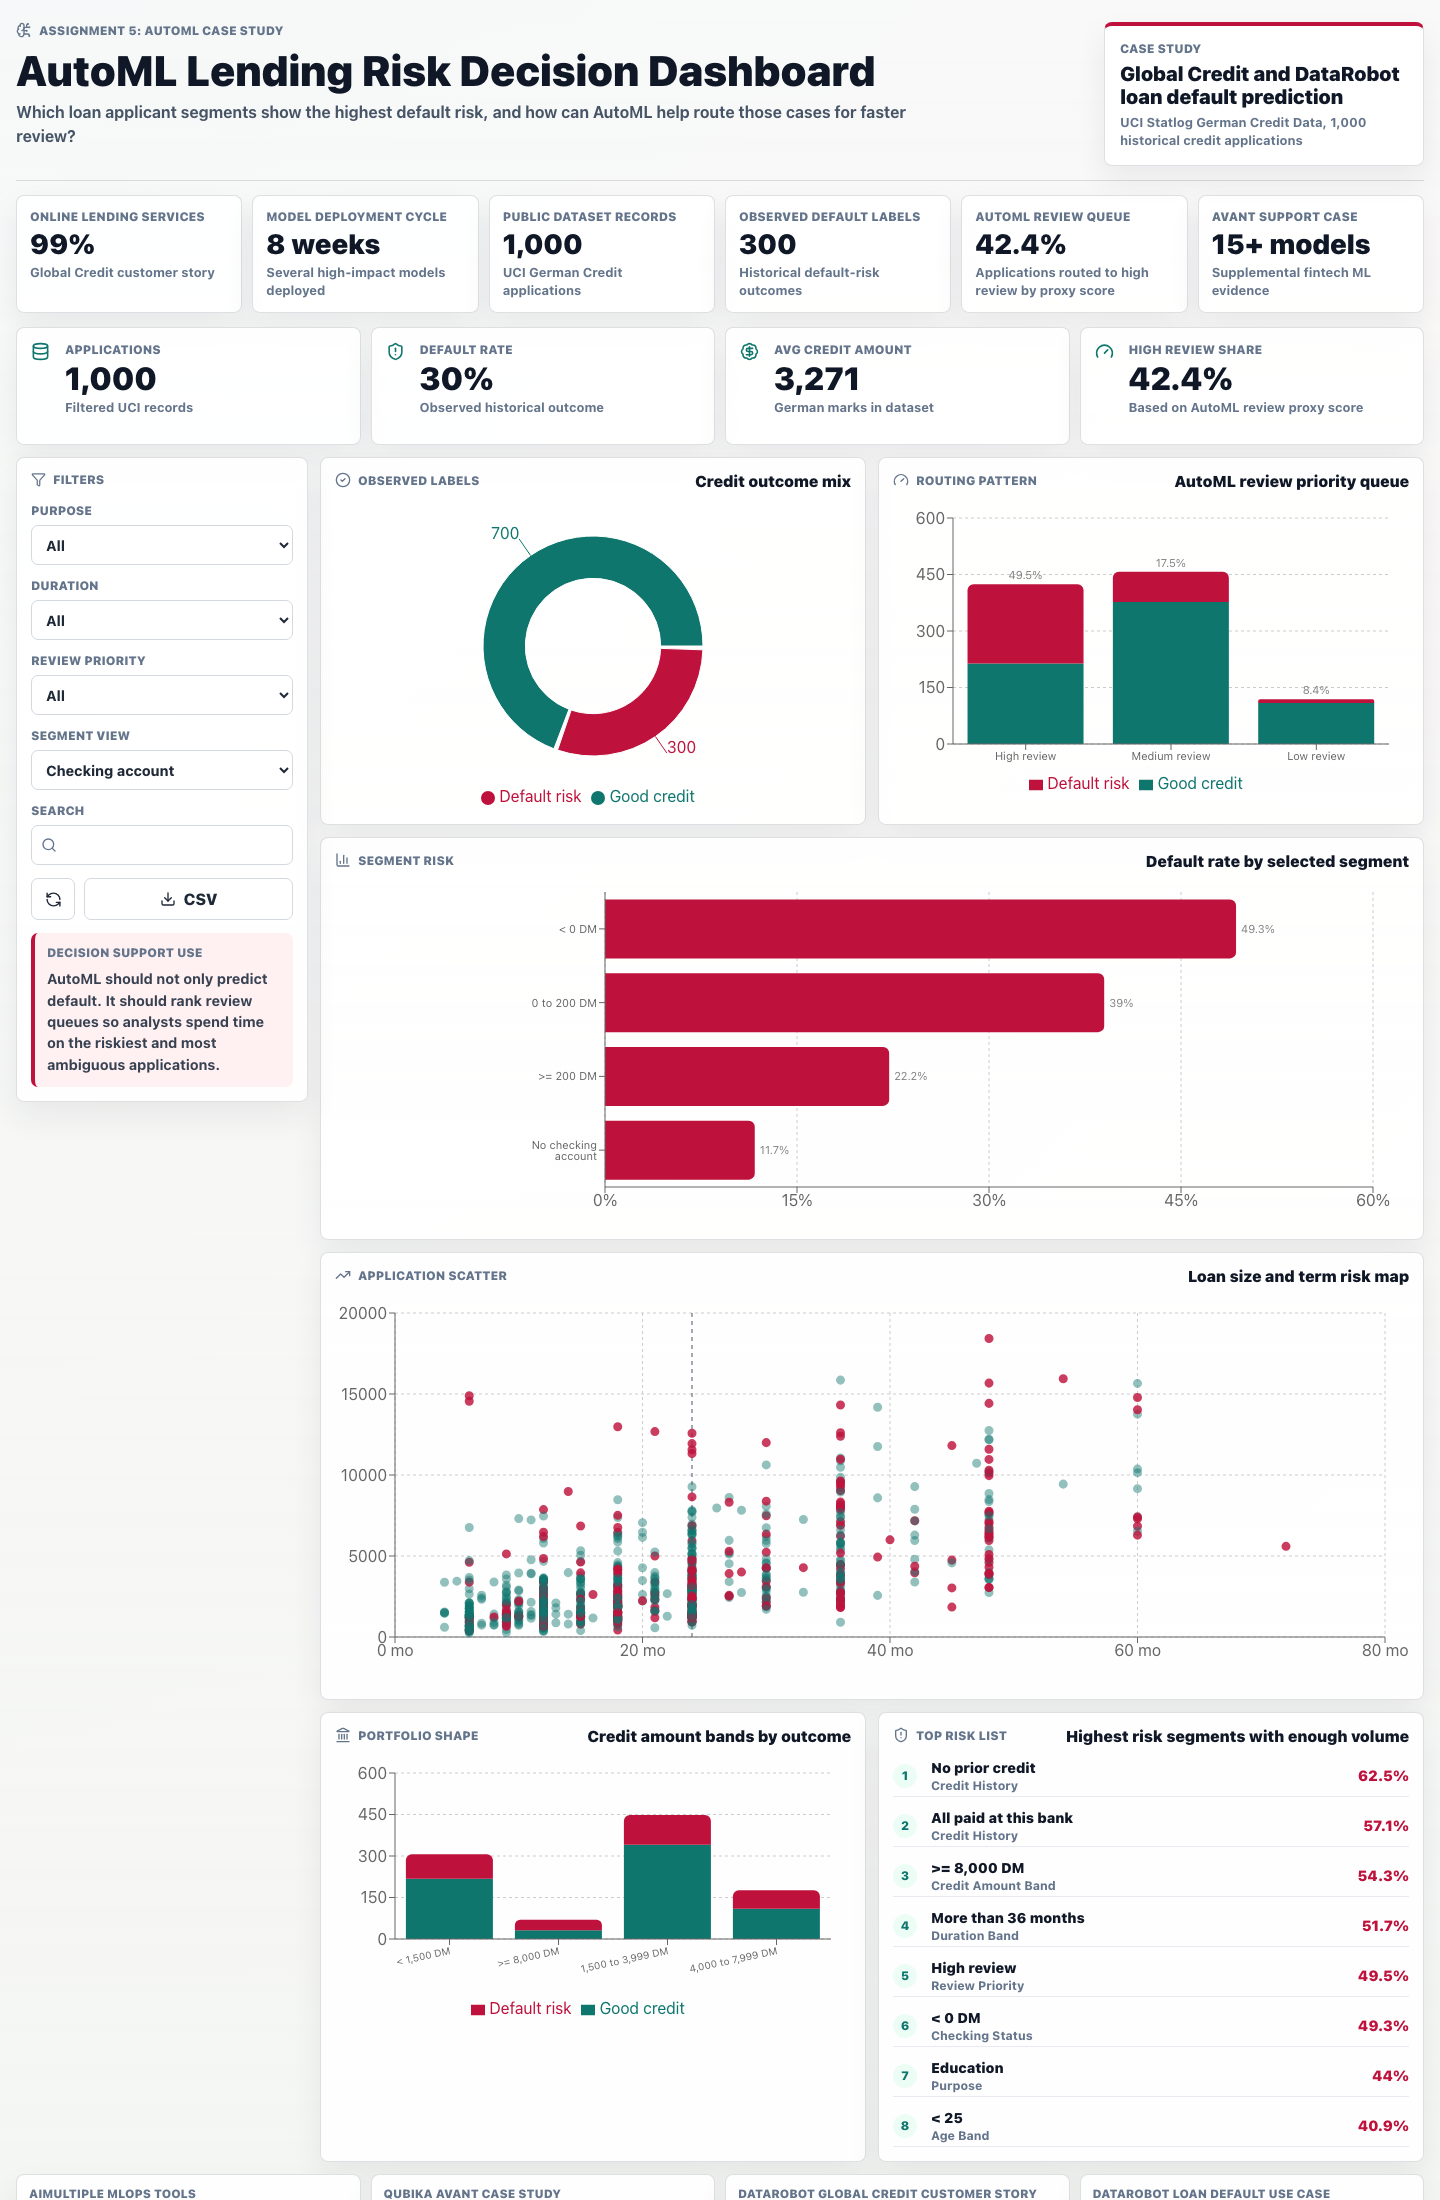
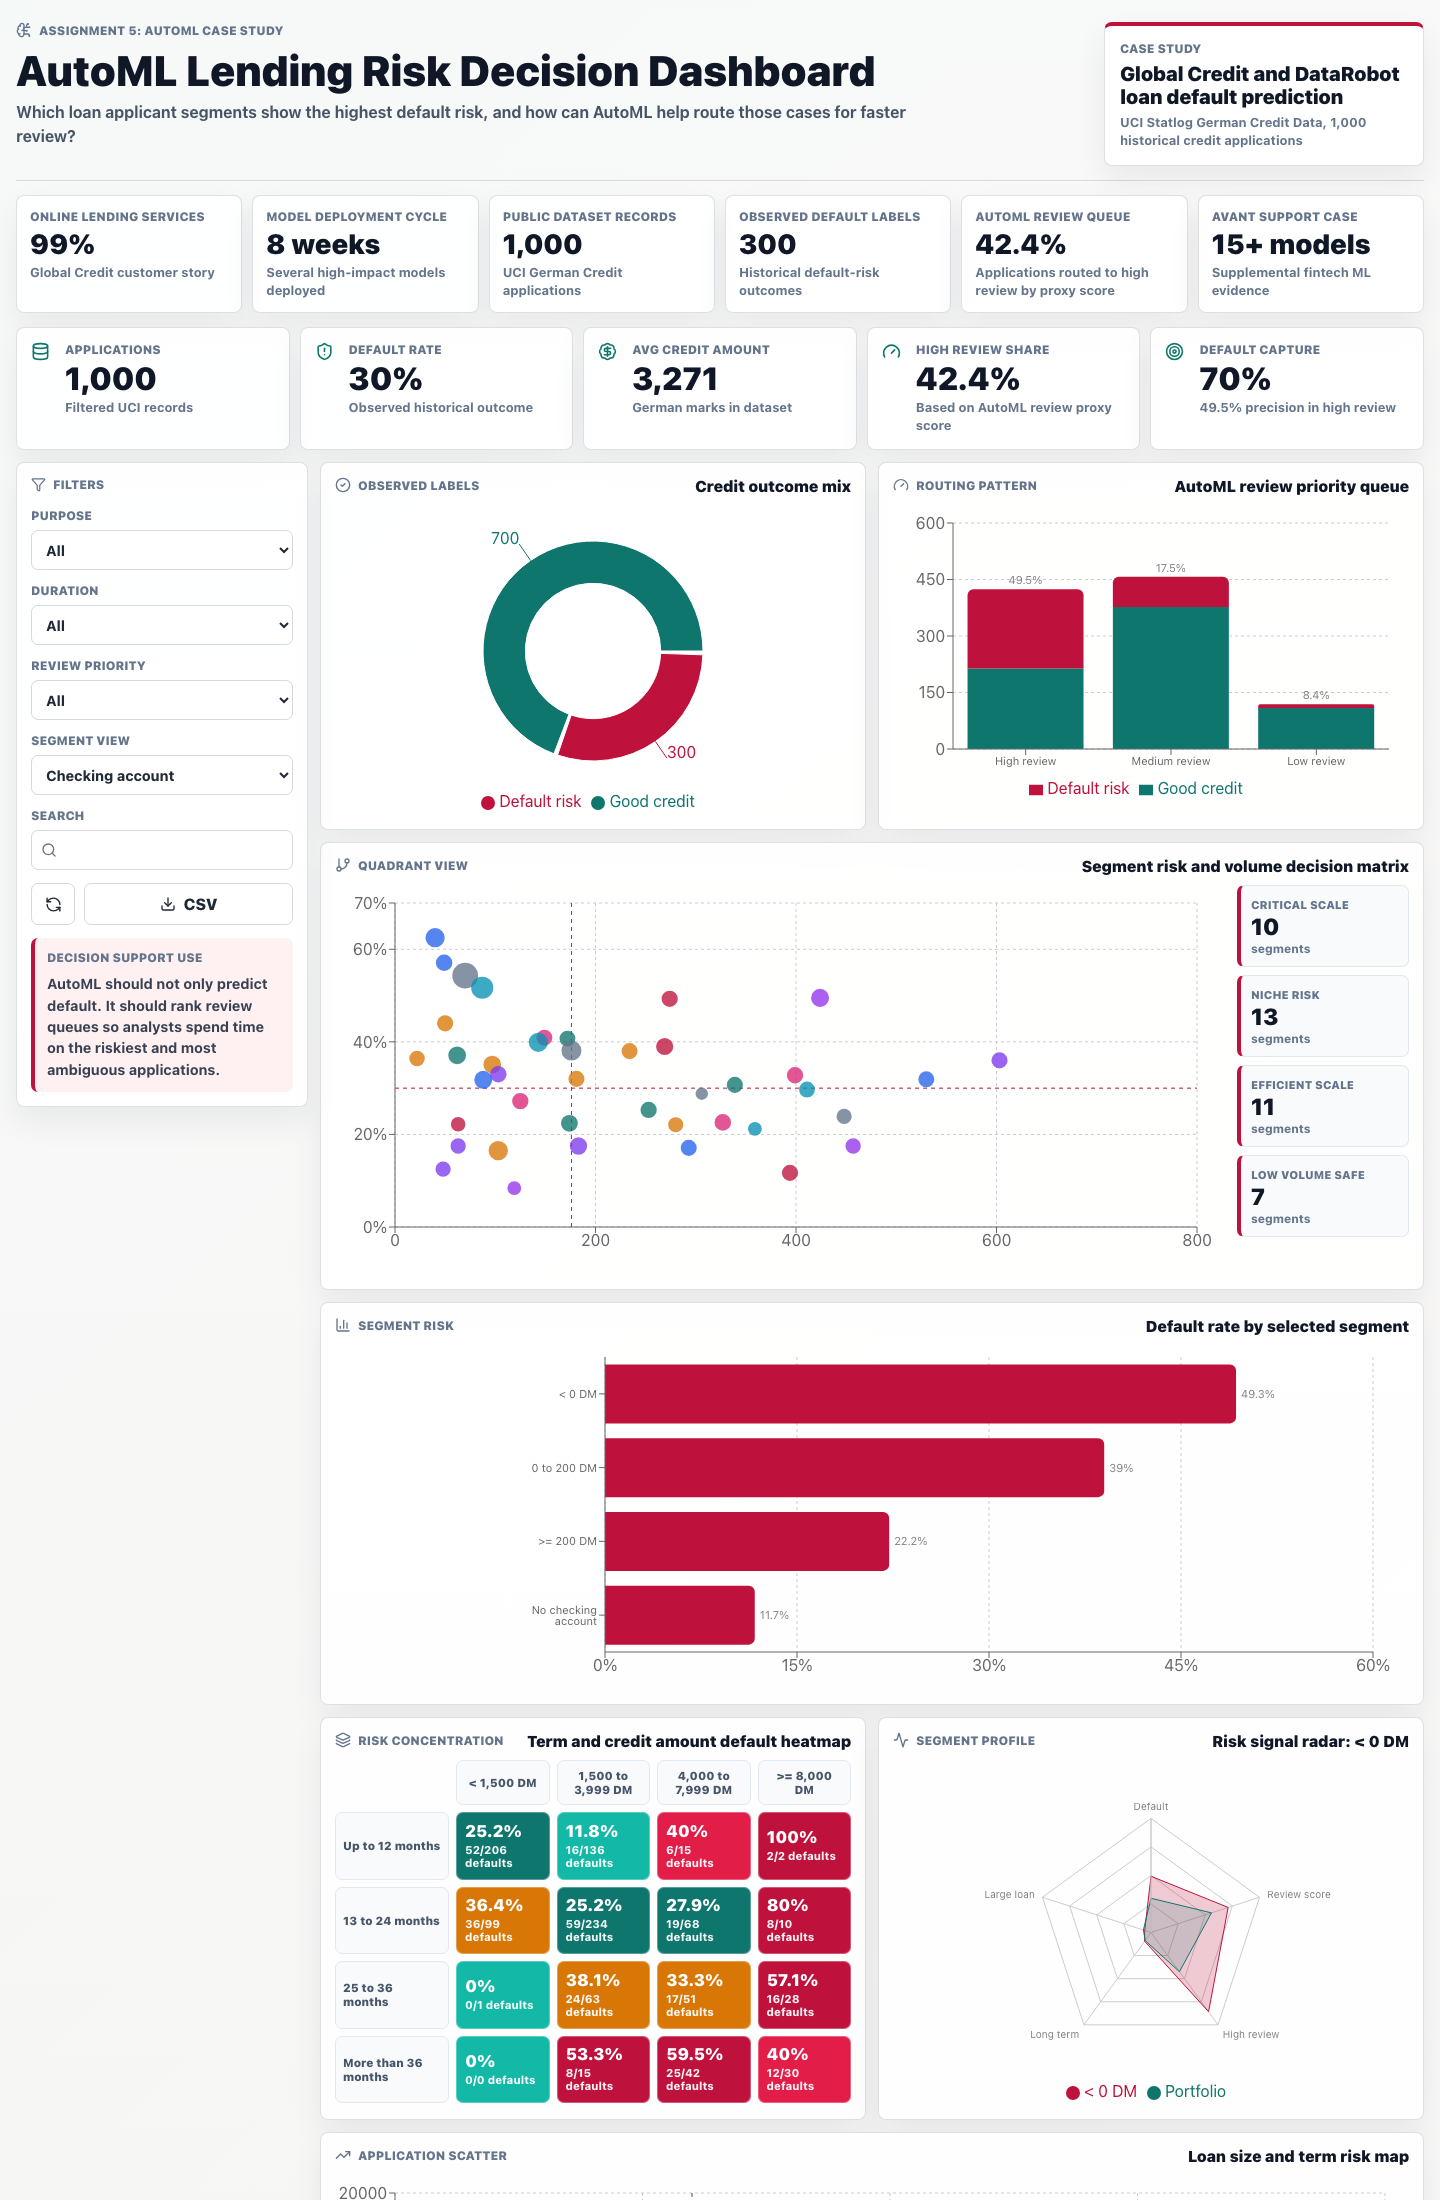
Enhance assignment 5 dashboard complexity

diff --git a/docs/assignment-5/index.html b/docs/assignment-5/index.html
@@ -4,8 +4,8 @@
     <meta charset="UTF-8" />
     <meta name="viewport" content="width=device-width, initial-scale=1.0" />
     <title>AutoML Lending Risk Dashboard</title>
-    <script type="module" crossorigin src="./assets/index-BXRBuzX-.js"></script>
-    <link rel="stylesheet" crossorigin href="./assets/index-DuGqvFz1.css">
+    <script type="module" crossorigin src="./assets/index-Brkte2UV.js"></script>
+    <link rel="stylesheet" crossorigin href="./assets/index-C2jRnx61.css">
   </head>
   <body>
     <div id="root"></div>

diff --git a/docs/assignment-5/assets/index-C2jRnx61.css b/docs/assignment-5/assets/index-C2jRnx61.css
@@ -1,0 +1,1 @@
+:root{color:#172033;background:#f4f6f3;font-family:Inter,ui-sans-serif,system-ui,-apple-system,BlinkMacSystemFont,Segoe UI,sans-serif;font-synthesis:none;text-rendering:optimizeLegibility;-webkit-font-smoothing:antialiased}*{box-sizing:border-box}html,body,#root{min-width:320px;min-height:100vh;overflow-x:hidden}body{margin:0;background:linear-gradient(180deg,#ffffffbd,#f4f6f3fa),linear-gradient(135deg,#0f766e1a,#be123c12 54%,#2563eb12)}button,select,input{font:inherit}button{cursor:pointer}h1,p{margin:0}a{color:inherit}.shell{width:min(1520px,calc(100% - 32px));margin:0 auto;padding:22px 0 34px}.loading-shell{min-height:100vh;display:grid;place-items:center;align-content:center;gap:12px;color:#172033;font-weight:850}.spin{color:#0f766e;animation:spin 1s linear infinite}@keyframes spin{to{transform:rotate(360deg)}}.topbar{display:grid;grid-template-columns:minmax(0,1fr) 320px;gap:14px;align-items:stretch;padding-bottom:14px;border-bottom:1px solid rgba(23,32,51,.14)}.title-block{min-width:0}.eyebrow,.data-card span,.case-metric span,.kpi-card span,.panel-head span,.field span,.filter-head span,.insight-box span{display:inline-flex;align-items:center;gap:7px;color:#64748b;font-size:.76rem;font-weight:900;letter-spacing:0;text-transform:uppercase}h1{margin-top:8px;color:#101827;font-size:2.65rem;line-height:1.02;font-weight:920;overflow-wrap:break-word}.title-block p{max-width:900px;margin-top:8px;color:#465466;font-size:1rem;line-height:1.5;font-weight:680}.data-card,.case-metric,.kpi-card,.filter-panel,.panel,.source-link{border:1px solid rgba(23,32,51,.14);border-radius:8px;background:#ffffffed;box-shadow:0 14px 32px #[phone redacted]}.data-card{display:grid;align-content:center;gap:6px;border-top:4px solid #be123c;padding:15px}.data-card strong{color:#101827;font-size:1.25rem;font-weight:920}.data-card small,.case-metric small,.kpi-card small{color:#64748b;font-size:.8rem;line-height:1.4;font-weight:720}.case-strip{display:grid;grid-template-columns:repeat(6,minmax(0,1fr));gap:10px;margin:14px 0}.case-metric{min-width:0;min-height:118px;display:grid;gap:6px;align-content:start;padding:13px}.case-metric strong{color:#101827;font-size:1.74rem;line-height:1;font-weight:920}.kpi-grid{display:grid;grid-template-columns:repeat(5,minmax(0,1fr));gap:10px;margin-bottom:12px}.kpi-card{min-width:0;min-height:118px;display:grid;grid-template-columns:24px minmax(0,1fr);gap:5px 10px;align-content:start;padding:14px}.kpi-card svg{grid-row:span 3;color:#0f766e}.kpi-card strong{color:#101827;font-size:2rem;line-height:1;font-weight:920}.workspace{display:grid;grid-template-columns:292px minmax(0,1fr);gap:12px;align-items:start}.filter-panel{position:sticky;top:12px;display:grid;gap:13px;padding:14px}.field{display:grid;gap:7px}.field select,.field input{width:100%;min-height:40px;border:1px solid #d4d8df;border-radius:7px;background:#fff;color:#1f2937;padding:0 10px;font-size:.9rem;font-weight:750}.field select:focus,.field input:focus{border-color:#0f766e;box-shadow:0 0 0 3px #0f766e24;outline:none}.search-field{position:relative}.search-field svg{position:absolute;left:10px;bottom:12px;color:#64748b}.search-field input{padding-left:34px}.button-row{display:grid;grid-template-columns:44px 1fr;gap:9px}.icon-button,.text-button{min-height:42px;border:1px solid #d4d8df;border-radius:7px;background:#fff;color:#1f2937;display:inline-flex;align-items:center;justify-content:center;gap:8px;font-weight:850}.icon-button:hover,.text-button:hover{border-color:#0f766e;color:#0f766e}.insight-box{display:grid;gap:8px;border-left:4px solid #be123c;border-radius:7px;background:#fff1f2;padding:12px}.insight-box p{color:#374151;font-size:.9rem;line-height:1.48;font-weight:700}.content-grid{min-width:0;display:grid;grid-template-columns:repeat(2,minmax(0,1fr));gap:12px}.panel{min-width:0;padding:14px}.panel.wide{grid-column:1 / -1}.panel-head{display:flex;align-items:start;justify-content:space-between;gap:12px;margin-bottom:10px}.panel-head strong{color:#101827;font-size:.98rem;font-weight:920;text-align:right}.chart-frame{width:100%;height:345px}.chart-frame.compact{height:310px}.pie-frame{width:100%;height:310px}.scatter-frame,.matrix-frame{width:100%;height:390px}.radar-frame{width:100%;height:345px}.quadrant-layout{display:grid;grid-template-columns:minmax(0,1fr) 172px;gap:12px;align-items:stretch}.quadrant-summary{display:grid;gap:8px;align-content:start}.quadrant-summary section{min-height:82px;display:grid;gap:4px;align-content:center;border:1px solid #e2e8f0;border-left:4px solid #be123c;border-radius:7px;background:#f8fafc;padding:10px}.quadrant-summary span{color:#64748b;font-size:.7rem;font-weight:900;text-transform:uppercase}.quadrant-summary strong{color:#101827;font-size:1.45rem;line-height:1;font-weight:920}.quadrant-summary small{color:#64748b;font-size:.74rem;font-weight:760}.heatmap-grid{width:100%;min-height:345px;display:grid;grid-template-columns:114px repeat(4,minmax(92px,1fr));gap:7px;overflow-x:auto;padding-bottom:2px}.heatmap-spacer,.heatmap-head,.heatmap-row-head,.heatmap-cell{min-width:0;border-radius:7px}.heatmap-head,.heatmap-row-head{display:grid;place-items:center;min-height:42px;border:1px solid #e2e8f0;background:#f8fafc;color:#475569;font-size:.72rem;line-height:1.2;font-weight:880;text-align:center;padding:7px}.heatmap-row-head{justify-items:start;text-align:left}.heatmap-cell{min-height:66px;display:grid;align-content:center;gap:3px;color:#fff;box-shadow:inset 0 0 0 1px #ffffff4d;padding:9px}.heatmap-cell strong{font-size:1.05rem;line-height:1;font-weight:920}.heatmap-cell small{font-size:.7rem;line-height:1.2;font-weight:800;opacity:.94}.chart-tooltip{min-width:180px;display:grid;gap:4px;border:1px solid #d4d8df;border-radius:7px;background:#fffffff7;box-shadow:0 12px 28px #[phone redacted];padding:9px 10px}.chart-tooltip strong{color:#101827;font-size:.9rem}.chart-tooltip span,.chart-tooltip small{color:#475569;font-size:.82rem;font-weight:760}.risk-list{display:grid;gap:8px}.risk-row{display:grid;grid-template-columns:28px minmax(0,1fr) 62px;gap:10px;align-items:center;min-height:42px;border-bottom:1px solid #e7ebf0}.risk-row span{display:grid;place-items:center;width:24px;height:24px;border-radius:999px;background:#ecfdf5;color:#0f766e;font-size:.76rem;font-weight:900}.risk-row strong,.risk-row small{display:block;min-width:0;white-space:nowrap;overflow:hidden;text-overflow:ellipsis}.risk-row strong{color:#101827;font-size:.88rem;font-weight:900}.risk-row small{margin-top:2px;color:#64748b;font-size:.76rem;font-weight:760;text-transform:capitalize}.risk-row b{color:#be123c;font-size:.92rem;font-weight:920;text-align:right}.source-grid{display:grid;grid-template-columns:repeat(4,minmax(0,1fr));gap:10px;margin-top:12px}.source-link{min-width:0;display:grid;grid-template-columns:minmax(0,1fr) 18px;gap:6px 10px;padding:12px;color:#172033;text-decoration:none}.source-link span{grid-column:1 / -1;color:#64748b;font-size:.74rem;font-weight:900;letter-spacing:0;text-transform:uppercase}.source-link strong{min-width:0;color:#101827;font-size:.84rem;line-height:1.32;font-weight:850}.source-link svg{color:#0f766e}@media(max-width:1260px){.case-strip,.kpi-grid{grid-template-columns:repeat(3,minmax(0,1fr))}}@media(max-width:1080px){.topbar,.workspace,.content-grid,.quadrant-layout{grid-template-columns:1fr}.data-card{max-width:460px}.filter-panel{position:static;grid-template-columns:repeat(2,minmax(0,1fr))}.filter-head,.button-row,.insight-box{grid-column:1 / -1}.source-grid{grid-template-columns:repeat(2,minmax(0,1fr))}}@media(max-width:760px){.shell{width:min(calc(100% - 20px),370px);margin:0 0 0 10px;padding-top:12px}h1{font-size:1.78rem;line-height:1.08}.case-strip,.kpi-grid,.filter-panel,.source-grid{grid-template-columns:1fr}.panel-head{display:grid}.panel-head strong{text-align:left}.chart-frame,.chart-frame.compact,.pie-frame,.scatter-frame,.matrix-frame,.radar-frame{height:310px}.heatmap-grid{grid-template-columns:72px repeat(4,minmax(56px,1fr));gap:4px;overflow-x:visible}.heatmap-head,.heatmap-row-head{min-height:38px;font-size:.54rem;padding:4px}.heatmap-cell{min-height:58px;padding:5px}.heatmap-cell strong{font-size:.78rem}.heatmap-cell small{font-size:.52rem}}